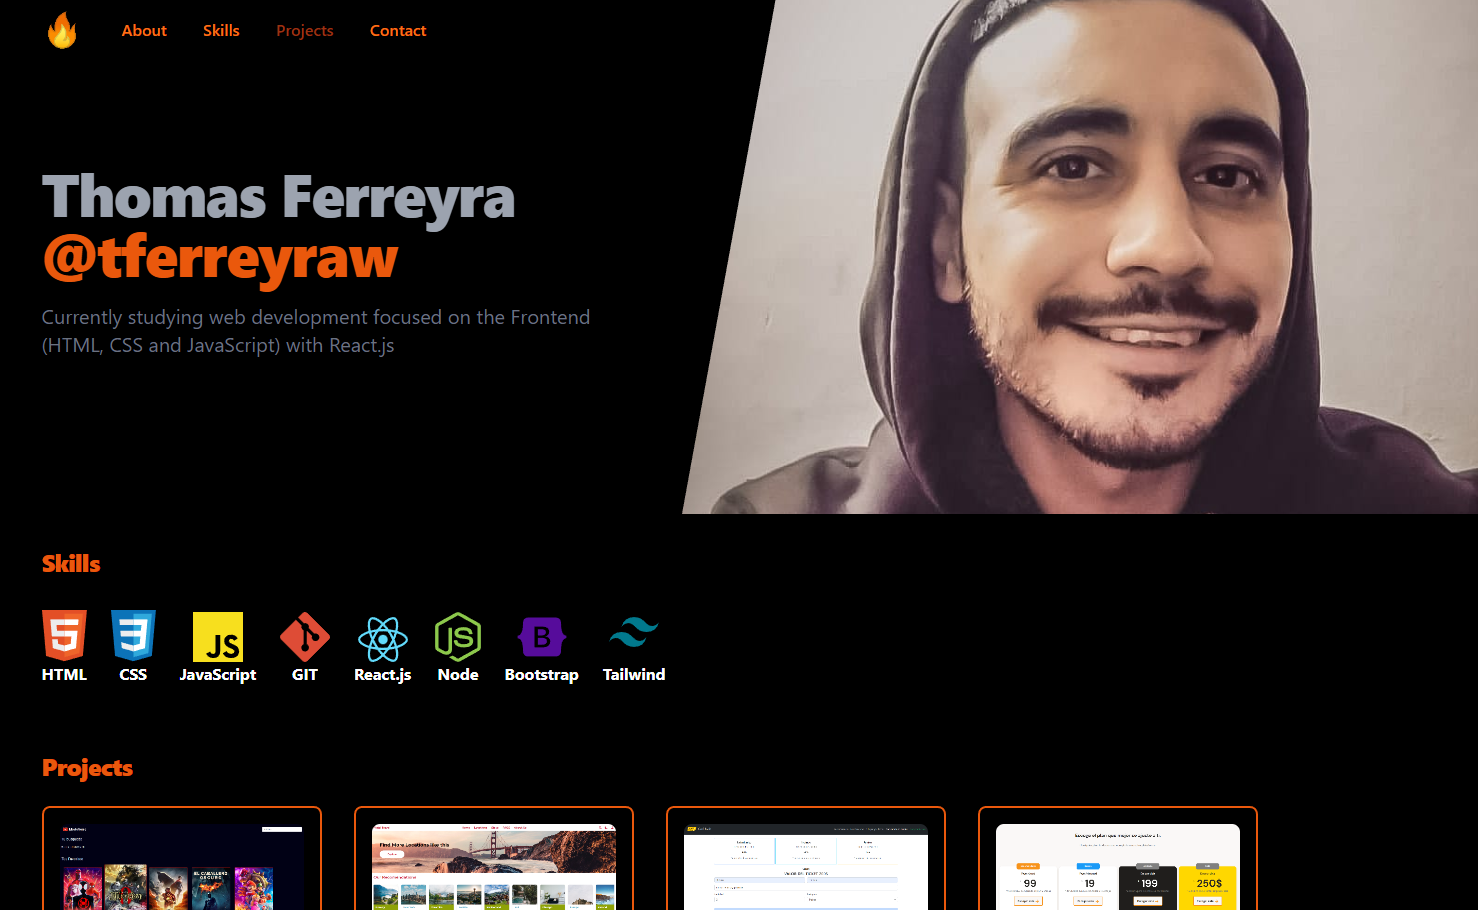
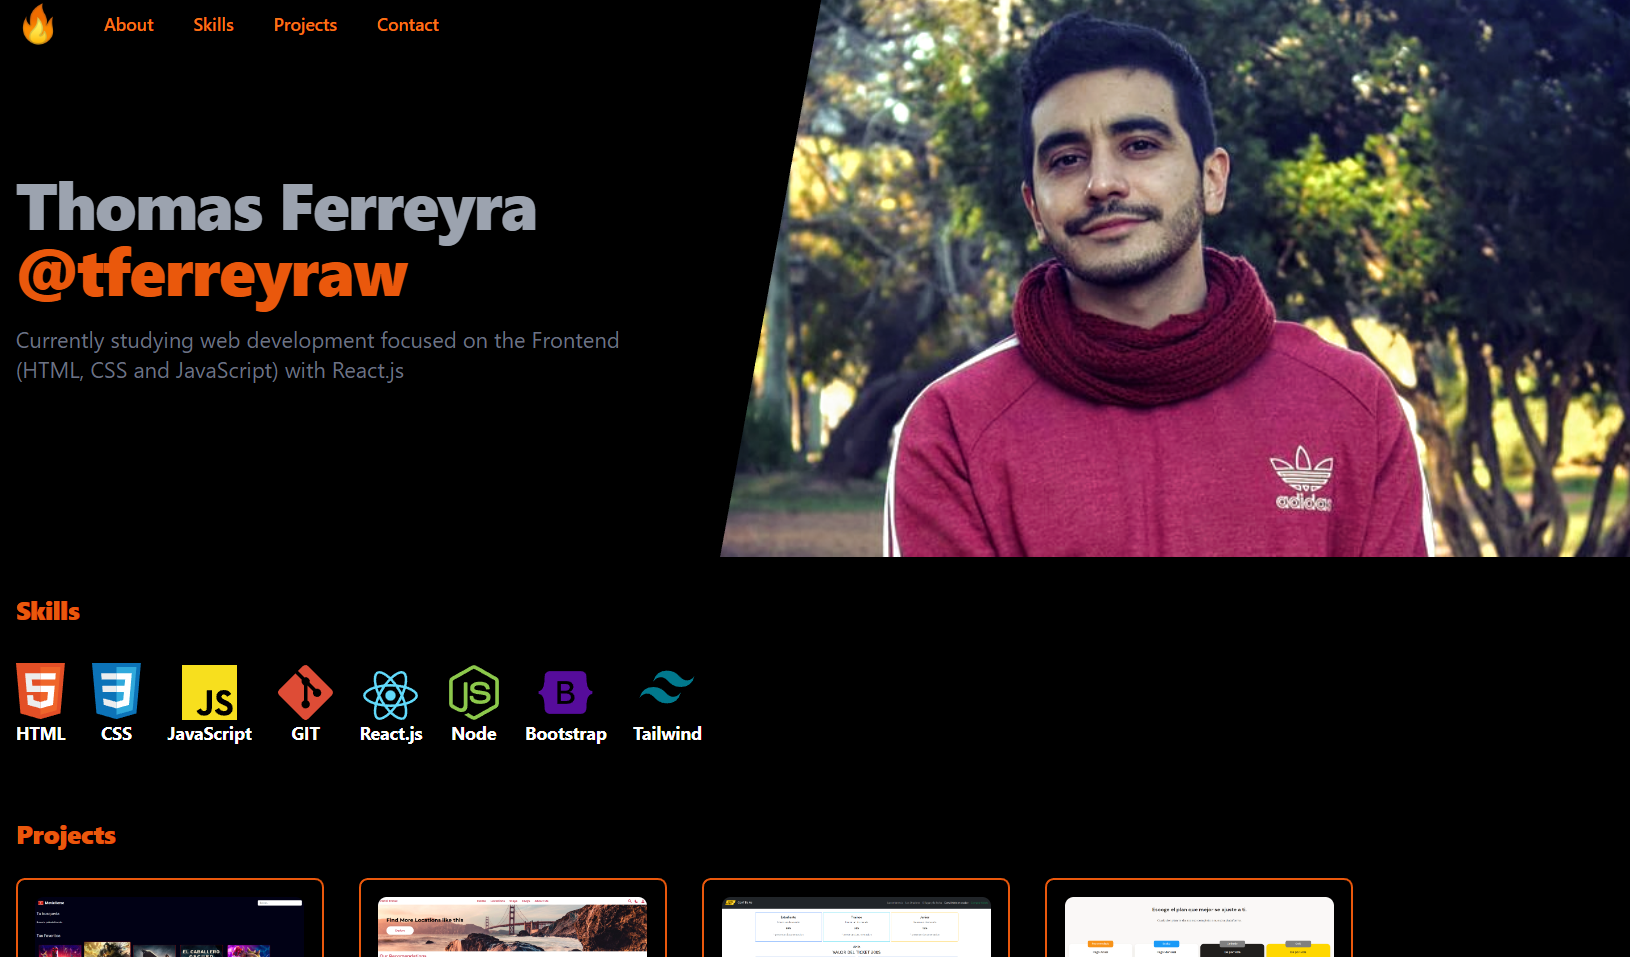
Cambio imagen perfil

diff --git a/index.html b/index.html
@@ -102,7 +102,7 @@
       <div class="lg:absolute lg:inset-y-0 lg:right-0 lg:w-1/2">
         <img
           class="h-56 w-full object-cover sm:h-72 md:h-96 lg:w-full lg:h-full"
-          src="./assets/perfil.jpg"
+          src="./assets/perfil.png"
           alt=""
         />
       </div>
